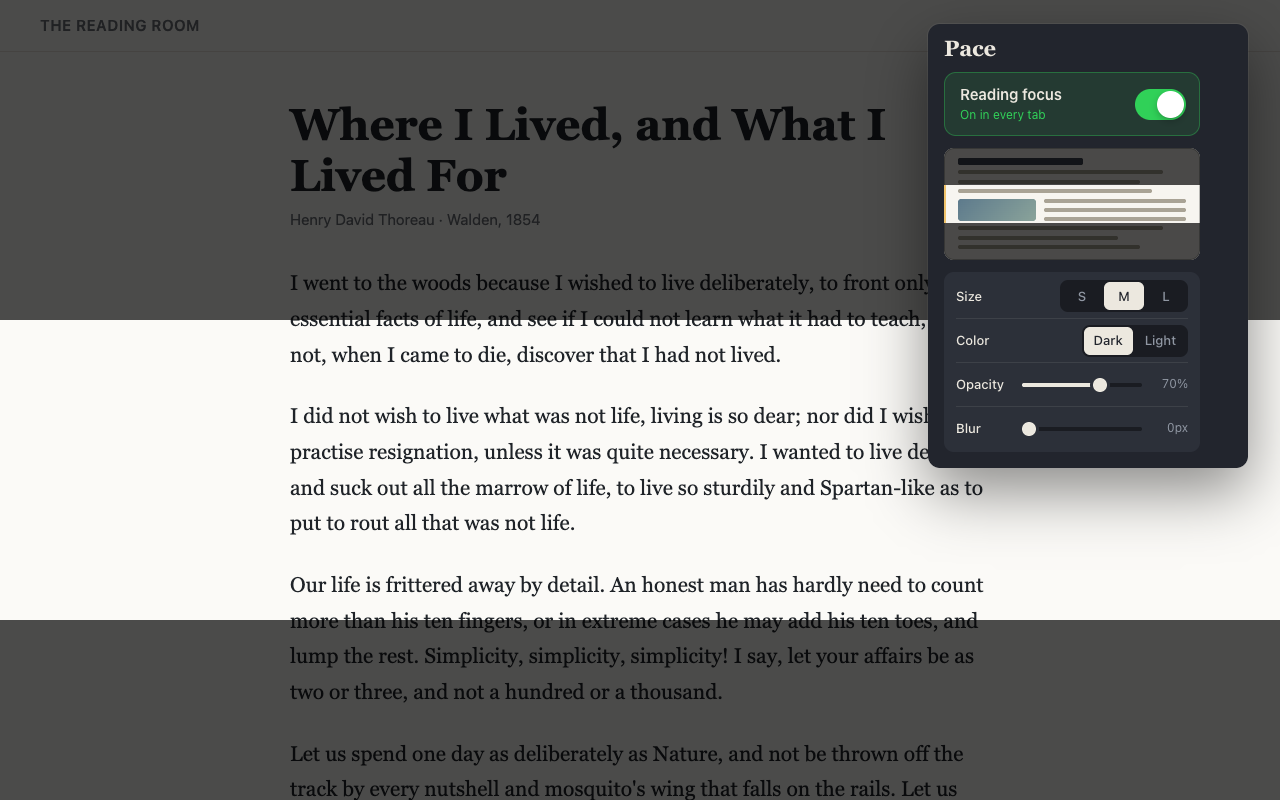
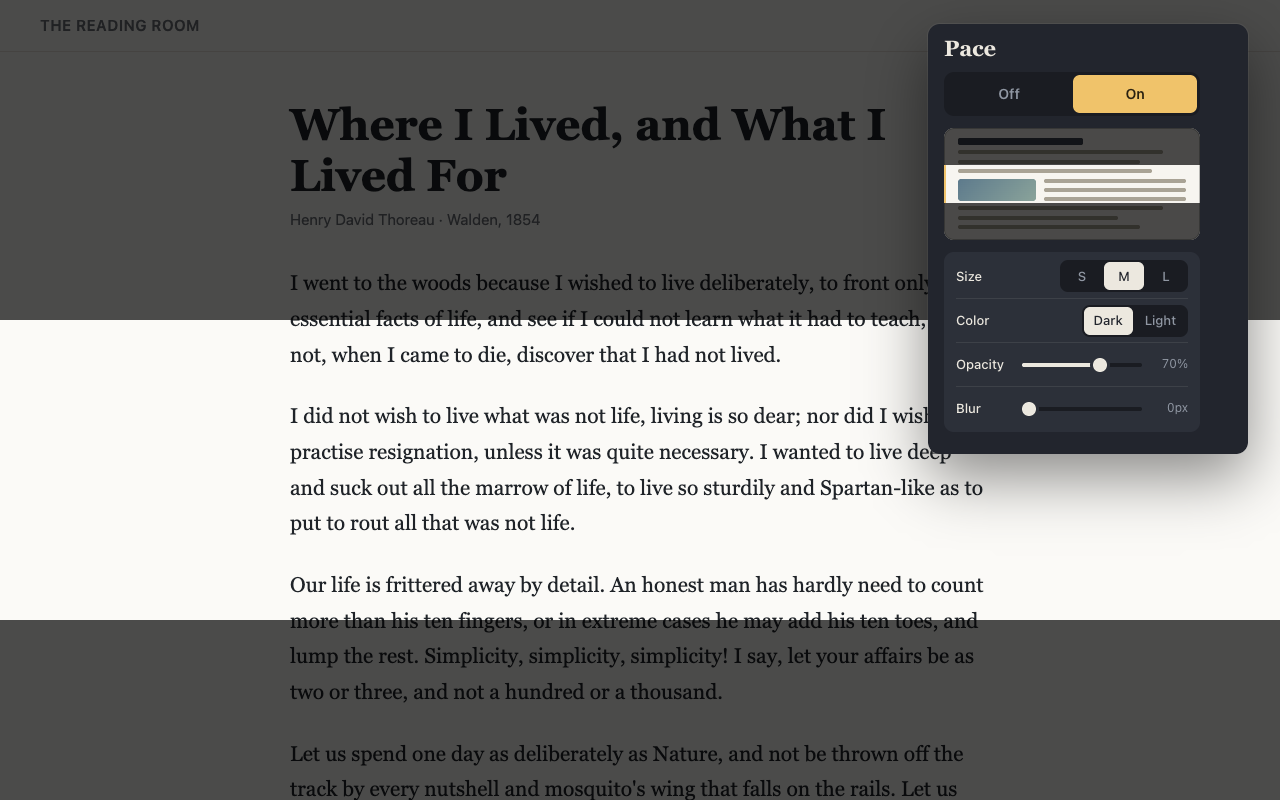
fix(extension): don't show a frozen band on PDFs; simpler Off | On control
- Chrome's PDF viewer runs in its own frame and never passes mouse events
  to the page, so the overlay mounted there (since c82d89c) sat at the
  vertical center and ignored the mouse. Don't mount on PDFs; the popup
  says why.
- Replace the "Reading focus" iOS-style green switch with a full-width
  Off | On segmented control, reusing the popup's existing segmented
  pattern. "On" lights in the lamp amber; the green accent is gone.
- Tests, docs and store screenshots updated.

Changed region(s): [[0.7188, 0.0625, 1.0, 0.5938]]

diff --git a/browser-extension/test/e2e/popup.spec.js b/browser-extension/test/e2e/popup.spec.js
@@ -7,11 +7,13 @@ async function openPopup(context, extensionId) {
   return popup;
 }
 
+const power = (popup, label) => popup.getByRole('group', { name: 'Pace' }).getByRole('button', { name: label, exact: true });
+
 const settings = async (context) => (await getStorage(context, 'paceSettings')).paceSettings;
 
 test('fresh install shows default controls', async ({ context, extensionId }) => {
   const popup = await openPopup(context, extensionId);
-  await expect(popup.getByRole('switch', { name: 'Reading focus' })).not.toBeChecked();
+  await expect(power(popup, 'Off')).toHaveAttribute('aria-pressed', 'true');
   await expect(popup.getByRole('button', { name: 'Medium' })).toHaveAttribute('aria-pressed', 'true');
   await expect(popup.getByRole('button', { name: 'Dark' })).toHaveAttribute('aria-pressed', 'true');
   await expect(popup.getByRole('slider', { name: 'Opacity' })).toHaveValue('70');
@@ -21,13 +23,13 @@ test('fresh install shows default controls', async ({ context, extensionId }) =>
   await expect(popup.getByRole('checkbox')).toHaveCount(0); // no analytics toggle
 });
 
-test('toggling the switch turns the overlay on in an open tab', async ({ context, extensionId, page }) => {
+test('turning Pace on from the popup shows the overlay in an open tab', async ({ context, extensionId, page }) => {
   await page.goto(`${FIXTURE_ORIGIN}/article.html`);
   const popup = await openPopup(context, extensionId);
-  await popup.getByRole('switch', { name: 'Reading focus' }).check();
+  await power(popup, 'On').click();
   await expect.poll(async () => (await settings(context)).enabled).toBe(true);
   await expect.poll(async () => (await overlayState(page)).count).toBe(1);
-  await popup.getByRole('switch', { name: 'Reading focus' }).uncheck();
+  await power(popup, 'Off').click();
   await expect.poll(async () => (await overlayState(page)).count).toBe(0);
 });
 
@@ -37,7 +39,7 @@ test('picking a size while off also turns Pace on', async ({ context, extensionI
   await expect.poll(() => settings(context)).toMatchObject({ size: 'L', enabled: true });
   await expect(popup.getByRole('button', { name: 'Large' })).toHaveAttribute('aria-pressed', 'true');
   await expect(popup.getByRole('button', { name: 'Medium' })).toHaveAttribute('aria-pressed', 'false');
-  await expect(popup.getByRole('switch', { name: 'Reading focus' })).toBeChecked();
+  await expect(power(popup, 'On')).toHaveAttribute('aria-pressed', 'true');
 });
 
 test('color, opacity and blur controls write settings and labels', async ({ context, extensionId }) => {
@@ -61,7 +63,7 @@ test('reopening the popup reflects saved values', async ({ context, extensionId 
   popup = await openPopup(context, extensionId);
   await expect(popup.getByRole('button', { name: 'Small' })).toHaveAttribute('aria-pressed', 'true');
   await expect(popup.getByRole('slider', { name: 'Opacity' })).toHaveValue('55');
-  await expect(popup.getByRole('switch', { name: 'Reading focus' })).toBeChecked();
+  await expect(power(popup, 'On')).toHaveAttribute('aria-pressed', 'true');
 });
 
 test('preview mirrors size, color and on/off', async ({ context, extensionId }) => {
@@ -112,13 +114,15 @@ test('notice: shown on restricted pages, hidden on live pages', async ({ context
   await expect(popup.locator('#notice')).toBeHidden();
 });
 
-test('power row shows a clear on/off status', async ({ context, extensionId }) => {
+test('on/off control lights exactly one state and works from the keyboard', async ({ context, extensionId }) => {
   const popup = await openPopup(context, extensionId);
-  await expect(popup.locator('#power-status')).toHaveText('Off');
-  await popup.locator('.power').click();
+  await power(popup, 'On').click();
   await expect.poll(async () => (await settings(context)).enabled).toBe(true);
-  await expect(popup.locator('#power-status')).toHaveText('On in every tab');
-  await expect(popup.getByRole('switch', { name: 'Reading focus' })).toBeChecked();
+  await expect(power(popup, 'On')).toHaveAttribute('aria-pressed', 'true');
+  await expect(power(popup, 'Off')).toHaveAttribute('aria-pressed', 'false');
+  await popup.keyboard.press('ArrowLeft');
+  await expect.poll(async () => (await settings(context)).enabled).toBe(false);
+  await expect(power(popup, 'Off')).toBeFocused();
 });
 
 test('notice: tab without a content script gets one injected instead of a reload prompt', async ({ context, extensionId, page }) => {
@@ -131,14 +135,14 @@ test('notice: tab without a content script gets one injected instead of a reload
   await expect(popup.locator('#notice')).toBeHidden();
 });
 
-test('notice: PDFs show a hint while Pace is on', async ({ context, extensionId, page }) => {
+test('notice: PDFs explain why Pace is not shown', async ({ context, extensionId, page }) => {
   await page.goto(`${FIXTURE_ORIGIN}/doc.pdf`);
   const popup = await openPopup(context, extensionId);
-  await popup.locator('.power').click();
+  await power(popup, 'On').click();
   await expect.poll(async () => (await settings(context)).enabled).toBe(true);
   await page.bringToFront();
   await popup.evaluate(() => globalThis.__pacePopup.checkActiveTab());
-  await expect(popup.locator('#notice')).toHaveText('On PDFs the band stays put. Scroll the text through it.');
+  await expect(popup.locator('#notice')).toHaveText("Chrome's PDF viewer hides the mouse from extensions, so Pace can't follow it on PDFs.");
 });
 
 test('every control has an accessible name', async ({ context, extensionId }) => {

diff --git a/browser-extension/src/popup/popup.css b/browser-extension/src/popup/popup.css
@@ -9,8 +9,6 @@
   --lamp: #f0c36a;
   --lamp-ink: #2a2110;
   --focus: #9cc2ff;
-  --on: #30d158;      /* Apple system green (dark appearance) */
-  --off-track: #3a3d46;
 
   /* Driven by popup.js so the preview mirrors the real overlay. */
   --dim: rgba(0, 0, 0, 0.7);
@@ -45,30 +43,6 @@ html, body {
   font: 600 22px/1 "New York", ui-serif, Georgia, "Times New Roman", serif;
   letter-spacing: -0.01em;
 }
-
-/* Power row: the main on/off. Whole row is the hit target. */
-.power {
-  position: relative;
-  display: flex;
-  align-items: center;
-  justify-content: space-between;
-  gap: 12px;
-  min-height: 64px;
-  padding: 12px 14px 12px 16px;
-  border-radius: 12px;
-  background: var(--raised);
-  box-shadow: inset 0 0 0 1px var(--line);
-  cursor: pointer;
-  user-select: none;
-  transition: background-color 200ms ease-out, box-shadow 200ms ease-out;
-}
-.power:hover { background: #31353f; }
-.panel.is-on .power { background: rgba(48, 209, 88, 0.12); box-shadow: inset 0 0 0 1px rgba(48, 209, 88, 0.35); }
-
-.power-text { display: flex; flex-direction: column; gap: 2px; }
-.power-title { font-size: 15px; font-weight: 600; color: var(--text); }
-.power-status { font-size: 12px; color: var(--muted); }
-.panel.is-on .power-status { color: var(--on); }
 
 /* Preview: a miniature page with the overlay applied */
 .preview {
@@ -142,7 +116,6 @@ html, body {
   font-size: 12px;
 }
 .notice[hidden] { display: none; }
-.notice.is-hint { background: rgba(236, 232, 223, 0.06); color: var(--muted); }
 
 .notice-action {
   flex: none;
@@ -220,25 +193,11 @@ output {
 .segmented button:hover { color: var(--text); }
 .segmented button[aria-pressed="true"] { background: var(--text); color: var(--base); }
 
-/* Switch: iOS proportions (51 x 31), green when on, white thumb */
-.power input { position: absolute; inset: 0; z-index: 1; opacity: 0; width: 100%; height: 100%; margin: 0; cursor: pointer; }
-.track {
-  flex: none;
-  width: 51px; height: 31px; border-radius: 16px;
-  padding: 2px;
-  display: inline-flex; align-items: center;
-  background: var(--off-track);
-  transition: background-color 200ms ease-out;
-}
-.thumb {
-  width: 27px; height: 27px; border-radius: 50%;
-  background: #fff;
-  box-shadow: 0 3px 8px rgba(0, 0, 0, 0.25), 0 1px 1px rgba(0, 0, 0, 0.16);
-  transition: transform 220ms cubic-bezier(0.3, 0.7, 0.4, 1);
-}
-.power input:checked ~ .track { background: var(--on); }
-.power input:checked ~ .track .thumb { transform: translateX(20px); }
-.power input:focus-visible ~ .track { outline: 2px solid var(--focus); outline-offset: 2px; }
+/* On/off: a full-width, larger segmented control. "On" lights up in lamplight. */
+.segmented.power { display: flex; padding: 3px; border-radius: 10px; }
+.segmented.power button { flex: 1; min-height: 38px; border-radius: 7px; font-size: 14px; font-weight: 600; }
+.segmented.power button[data-value="false"][aria-pressed="true"] { background: var(--raised); color: var(--text); }
+.segmented.power button[data-value="true"][aria-pressed="true"] { background: var(--lamp); color: var(--lamp-ink); }
 
 /* Range */
 input[type="range"] {

diff --git a/browser-extension/src/popup/popup.js b/browser-extension/src/popup/popup.js
@@ -13,8 +13,6 @@
   var earlyPatch = null; // changes made before stored settings finished loading
 
   var els = {
-    enabled: document.getElementById('enabled'),
-    status: document.getElementById('power-status'),
     notice: document.getElementById('notice'),
     noticeText: document.getElementById('notice-text'),
     noticeAction: document.getElementById('notice-action'),
@@ -28,8 +26,6 @@
   };
 
   function render() {
-    els.enabled.checked = settings.enabled;
-    els.status.textContent = settings.enabled ? 'On in every tab' : 'Off';
     var opacityPct = Math.round(settings.opacity * 100);
     els.opacity.value = String(opacityPct);
     els.opacityValue.textContent = opacityPct + '%';
@@ -103,13 +99,9 @@
   }
 
   function parseValue(setting, raw) {
-    if (setting === 'isDarkMode') return raw === 'true';
+    if (setting === 'isDarkMode' || setting === 'enabled') return raw === 'true';
     return raw;
   }
-
-  els.enabled.addEventListener('change', function () {
-    change({ enabled: els.enabled.checked });
-  });
 
   els.opacity.addEventListener('input', function () {
     change({ opacity: Number(els.opacity.value) / 100 }, true);
@@ -159,11 +151,10 @@
 
   var noticeAction = null;
 
-  // kind: 'warn' (default) or 'hint'. action: { label, run } adds a button.
-  function showNotice(text, kind, action) {
+  // action: { label, run } adds a button.
+  function showNotice(text, action) {
     els.noticeText.textContent = text || '';
     els.notice.hidden = !text;
-    els.notice.classList.toggle('is-hint', kind === 'hint');
     noticeAction = text && action ? action.run : null;
     els.noticeAction.hidden = !noticeAction;
     els.noticeAction.textContent = noticeAction ? action.label : '';
@@ -212,7 +203,7 @@
     if (!tab || tab.id === undefined) return showNotice(cantShow());
     if (!reply) {
       if (isFileUrl(tab.url) && !tab.fileAccess) {
-        return showNotice('Local files need one extra permission.', 'warn', {
+        return showNotice('Local files need one extra permission.', {
           label: 'Allow',
           run: function () { chrome.tabs.create({ url: 'chrome://extensions/?id=' + chrome.runtime.id }); }
         });
@@ -221,9 +212,9 @@
       return showNotice('Reload this tab to use Pace here.');
     }
     if (reply.unsupported) return showNotice(cantShow());
+    if (reply.pdf) return showNotice("Chrome's PDF viewer hides the mouse from extensions, so Pace can't follow it on PDFs.");
     // reply.enabled guards against a ping taken before the switch was flipped.
     if (settings.enabled && reply.enabled && !reply.mounted) return showNotice("Pace isn't showing here. Try reloading this tab.");
-    if (settings.enabled && reply.pdf) return showNotice('On PDFs the band stays put. Scroll the text through it.', 'hint');
     showNotice('');
   }
 

diff --git a/browser-extension/test/e2e/overlay.spec.js b/browser-extension/test/e2e/overlay.spec.js
@@ -246,15 +246,16 @@ test('turning Pace off also clears a leftover host from an orphaned instance', a
   await expect.poll(async () => (await overlayState(page)).count).toBe(0);
 });
 
-test('mounts over PDFs with the band at the viewport center', async ({ context, page }) => {
-  await setSettings(context, { enabled: true, size: 'M' });
+// Chrome's PDF viewer never passes mouse events to the page, so a band there could only sit still.
+test('does not mount on PDFs and the ping reports them as PDFs', async ({ context, page }) => {
+  await setSettings(context, { enabled: true });
   await page.goto(`${FIXTURE_ORIGIN}/doc.pdf`);
-  await expect.poll(async () => (await overlayState(page)).count).toBe(1);
-  const s = await settledOverlay(page, (s) => s.mounted);
-  expect(s.topBottomEdge).toBeCloseTo(s.viewportHeight / 2 - 150, 0);
-  expect(s.bottomTopEdge).toBeCloseTo(s.viewportHeight / 2 + 150, 0);
-  await setSettings(context, { enabled: false });
-  await expect.poll(async () => (await overlayState(page)).count).toBe(0);
+  const reply = async () => (await getWorker(context)).evaluate(async (url) => {
+    const tab = (await chrome.tabs.query({})).find((t) => t.url === url);
+    return chrome.tabs.sendMessage(tab.id, { type: 'pace_ping' }).catch(() => null);
+  }, page.url());
+  await expect.poll(reply).toMatchObject({ mounted: false, enabled: true, pdf: true });
+  expect((await overlayState(page)).count).toBe(0);
 });
 
 test('does not mount on SVG documents and the ping reports them unsupported', async ({ context, page }) => {

diff --git a/browser-extension/src/popup/popup.html b/browser-extension/src/popup/popup.html
@@ -10,15 +10,11 @@
   <main class="panel">
     <h1 class="wordmark">Pace</h1>
 
-    <!-- The one control that matters most: big, labelled, iOS-style. The whole row toggles it. -->
-    <label class="power" for="enabled">
-      <span class="power-text">
-        <span id="power-title" class="power-title">Reading focus</span>
-        <span id="power-status" class="power-status">Off</span>
-      </span>
-      <input id="enabled" type="checkbox" role="switch" aria-labelledby="power-title" aria-describedby="power-status">
-      <span class="track" aria-hidden="true"><span class="thumb"></span></span>
-    </label>
+    <!-- On/off uses the same segmented pattern as the other settings: both states visible, the active one lit. -->
+    <div class="segmented power" role="group" aria-label="Pace" data-setting="enabled">
+      <button type="button" data-value="false" aria-pressed="true">Off</button>
+      <button type="button" data-value="true" aria-pressed="false">On</button>
+    </div>
 
     <!-- Miniature page showing the current overlay; hover to move the band. -->
     <div id="preview" class="preview" aria-hidden="true">

diff --git a/browser-extension/src/content.js b/browser-extension/src/content.js
@@ -62,8 +62,8 @@
     return !root || root.namespaceURI !== 'http://www.w3.org/1999/xhtml';
   }
 
-  // Chrome's PDF viewer swallows mouse events, so on PDFs the band stays at a fixed reading
-  // position (viewport center) and the text is scrolled through it.
+  // Chrome's PDF viewer runs in its own frame and never passes mouse events to this page, so a
+  // band here could not follow the cursor. Don't mount; the popup explains why.
   function isPdf() {
     return document.contentType === 'application/pdf';
   }
@@ -143,7 +143,7 @@
 
   function mount() {
     if (host && host.isConnected) return;
-    if (unsupportedDocument()) return;
+    if (unsupportedDocument() || isPdf()) return;
     var root = document.documentElement;
     // Replace any host left behind by an orphaned script (extension update/reload).
     removeAllHosts();

diff --git a/browser-extension/test/e2e/smoke.spec.js b/browser-extension/test/e2e/smoke.spec.js
@@ -17,6 +17,6 @@ test('popup opens without errors', async ({ context, extensionId }) => {
   popup.on('pageerror', (e) => errors.push(e.message));
   popup.on('console', (m) => m.type() === 'error' && errors.push(m.text()));
   await popup.goto(`chrome-extension://${extensionId}/src/popup/popup.html`);
-  await expect(popup.getByRole('switch', { name: 'Reading focus' })).toBeVisible();
+  await expect(popup.getByRole('group', { name: 'Pace' })).toBeVisible();
   expect(errors).toEqual([]);
 });

diff --git a/browser-extension/test/QA_CHECKLIST.md b/browser-extension/test/QA_CHECKLIST.md
@@ -7,14 +7,14 @@ Run this in **real Google Chrome** with the unpacked extension loaded (see `../R
 - [ ] Load unpacked `browser-extension/`. No errors appear on `chrome://extensions`; the service worker shows as active.
 
 ## Core overlay
-- [ ] Open the popup and turn on **Reading focus**. The overlay appears in the **already-open tabs without reloading them**.
+- [ ] Open the popup and click **On**. The overlay appears in the **already-open tabs without reloading them**.
 - [ ] On a long article, the band follows the mouse up and down smoothly and stays full width; moving left and right doesn't move it.
 - [ ] Sizes S / M / L visibly change the band height (about 200 / 300 / 450px).
 - [ ] Dark and Light both work; opacity at 10% and 100% looks right.
 - [ ] Blur at 0, 10 and 20: text in the dim area is frosted. Scrolling stays smooth (note any jank).
 - [ ] Links in the dim area are clickable, text selection works through the dim area, and typing in inputs works.
 - [ ] Open a new tab to another site: the overlay is already on there.
-- [ ] Turn the switch off: the overlay disappears in all tabs.
+- [ ] Click **Off**: the overlay disappears in all tabs.
 - [ ] Quit and reopen Chrome with Pace on: the overlay is back on regular pages.
 
 ## Edge cases
@@ -22,7 +22,7 @@ Run this in **real Google Chrome** with the unpacked extension loaded (see `../R
 - [ ] A `file://` page with file access off → notice "Local files need one extra permission." with an **Allow** button that opens Pace's details page.
 - [ ] A YouTube embed or other cross-origin iframe page: note how the band behaves over the iframe (expected: it pauses).
 - [ ] A same-origin iframe page: note the behavior.
-- [ ] A PDF opened in Chrome's viewer (web and `file://`): the overlay shows with the band at the vertical center; scrolling the PDF works; the popup shows the "band stays put" hint.
+- [ ] A PDF opened in Chrome's viewer (web and `file://`): no overlay; the PDF scrolls and selects normally; the popup explains that the PDF viewer hides the mouse.
 - [ ] Fullscreen a video: note that the overlay isn't drawn over browser fullscreen.
 - [ ] Print preview (Cmd+P): no overlay in the preview.
 - [ ] Click **reload** on the extension card in `chrome://extensions` with Pace on and tabs open: each tab ends with exactly one working overlay (or none until the next mouse move, then one). Turning Pace off afterwards removes it everywhere.

diff --git a/browser-extension/README.md b/browser-extension/README.md
@@ -6,8 +6,8 @@ A lightweight Manifest V3 extension that brings Pace's **Rectangle** reading-foc
 - **Color:** dark or light dimming
 - **Opacity:** 10–100%
 - **Blur:** 0–20px (frosted dim area)
-- **Global on/off:** one large switch at the top of the popup. It applies to every tab, live, and persists across restarts.
-- **Works everywhere Chrome allows:** any web page, local files (once file access is allowed) and PDFs. On PDFs the band stays at the middle of the screen and you scroll the text through it, because Chrome's PDF viewer hides the mouse from extensions.
+- **Global on/off:** a large Off | On control at the top of the popup. It applies to every tab, live, and persists across restarts.
+- **Works everywhere Chrome allows:** any web page and local files (once file access is allowed). Not PDFs: Chrome's PDF viewer hides the mouse from extensions, so the band couldn't follow it.
 
 No build step and no runtime dependencies. The extension is plain JS, HTML and CSS. `node_modules` exists only for the tests.
 
@@ -69,6 +69,6 @@ The e2e tests load the unpacked extension into Playwright's bundled Chromium (br
 
 - Chrome doesn't let any extension run on `chrome://` pages, the Chrome Web Store, other extensions' pages, `view-source:` or `data:` URLs. The popup says so.
 - `file://` pages need **Allow access to file URLs** turned on in the extension's details.
-- The band only follows the mouse in the top-level page. Over iframes (embeds, some editors) it pauses until the cursor leaves them. In Chrome's PDF viewer it stays at the vertical center.
+- The band only follows the mouse in the top-level page. Over iframes (embeds, some editors) it pauses until the cursor leaves them. Chrome's PDF viewer hides the mouse entirely, so Pace doesn't show on PDFs.
 - Fullscreen video and page `<dialog>`/popover top-layer elements render above the overlay.
 - Large blur values over heavy pages can cost scroll smoothness. Blur defaults to 0.

diff --git a/browser-extension/store/STORE_LISTING.md b/browser-extension/store/STORE_LISTING.md
@@ -22,11 +22,11 @@ Pace helps you read on the web without losing your place.
 
 It dims everything on the page except a soft band that follows your mouse. Your eyes stay on the lines you're reading, and the rest of the page fades out of the way.
 
-• One switch: turn Pace on and it works in every tab, including ones already open.
+• One tap: turn Pace on and it works in every tab, including ones already open.
 • Three band sizes: small, medium and large.
 • Dark or light dimming, with adjustable opacity.
 • Optional blur to frost the dimmed parts of the page.
-• Works on articles, docs, email, and PDFs. On PDFs the band stays in the middle of the screen and you scroll the text through it.
+• Works on articles, docs, email, and local files.
 • Links, text selection and typing all keep working through the dimmed area.
 
 Private by design: Pace never reads the text of your pages and never collects your URLs or browsing history. It only uses your mouse's vertical position, inside the tab, to place the band.
